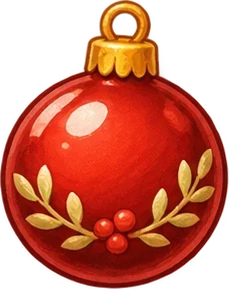
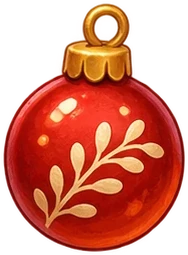
juego: canasta que se llena (vacía, a medias, llena) con bono por pedido completo y adornos nuevos
Con la hoja nueva: tres dibujos de canasta según cuántos pollitos y piezas lleva; al juntar 18 se
completa el pedido (+100 y la canasta se vacía). Esfera, piña y listón se rehacen con el estilo de
la hoja y se suman la rama de pino y el regalo como cosas que no van en el pedido.

diff --git a/src/data/juegoPollitos.js b/src/data/juegoPollitos.js
@@ -10,6 +10,9 @@ import { sonar } from './pollitosAudio.js'
 const W = 400
 const MOSTRADOR = 92           // alto de la franja del mostrador (suelo)
 const CANASTA_W = 108
+const CANASTA_ALTO = 88         // de la base al borde de la canasta vacía
+const PEDIDO = 18               // piezas y pollitos que llenan un pedido (da un bono y la canasta se vacía)
+const BONO_PEDIDO = 100
 const VEL_CANASTA = 1500       // unidades por segundo
 const VIDAS = 3
 
@@ -30,8 +33,11 @@ const MALOS = [
   { id: 'esfera', w: 46, tipo: 'malo' },
   { id: 'pina', w: 46, tipo: 'malo' },
   { id: 'liston', w: 56, tipo: 'malo' },
+  { id: 'rama', w: 52, tipo: 'malo' },
+  { id: 'regalo', w: 50, tipo: 'malo' },
 ]
-const IMAGENES = ['canasta', ...BUENOS.map(b => b.id), CORAZON.id, ...MALOS.map(m => m.id)]
+const CANASTAS = ['canasta-vacia', 'canasta-media', 'canasta-llena']
+const IMAGENES = [...CANASTAS, ...BUENOS.map(b => b.id), CORAZON.id, ...MALOS.map(m => m.id)]
 
 const COLORES_CHISPA = ['#FFE066', '#FFF3C4', '#F4B63E', '#FF9F43']
 const COLORES_LUZ = ['#FFD36A', '#FF6A5A', '#7FE08A', '#FFD36A', '#FFF1C2']
@@ -68,6 +74,7 @@ export function crearJuego(canvas, imgs, op) {
   let x = W / 2
   let objetivo = W / 2
   let inclina = 0
+  let llenado = 0              // piezas y pollitos en la canasta (decide cuál de los tres dibujos se ve)
   let puntos = 0, vidas = VIDAS, racha = 0, mejorRacha = 0, nPollitos = 0, nPiezas = 0
   let spawnT = 0.6
   let ultimoX = -999
@@ -289,7 +296,7 @@ export function crearJuego(canvas, imgs, op) {
 
   function atrapar(it) {
     it.dentro = 0
-    const bocaY = sueloY() + 12 - (CANASTA_W * 233) / 300 + 18
+    const bocaY = sueloY() + 12 - CANASTA_ALTO + 18
     if (it.malo) {
       if (estado === 'jugando') {
         vidas -= 1; racha = 0; sacudida = 0.5; destello = 0.55
@@ -304,6 +311,11 @@ export function crearJuego(canvas, imgs, op) {
     }
     rebote = 1
     chispas(it.x, bocaY, COLORES_CHISPA, 9)
+    let completo = false
+    if (it.tipo === 'pollito' || it.tipo === 'pieza') {
+      llenado += 1
+      if (llenado >= PEDIDO) { llenado = 0; completo = true }
+    }
     if (estado !== 'jugando') return
     if (it.tipo === 'vida') {
       vidas = Math.min(VIDAS, vidas + 1)
@@ -319,6 +331,12 @@ export function crearJuego(canvas, imgs, op) {
     else if (it.tipo === 'pieza') nPiezas += 1
     sonido(it.tipo === 'moneda' || it.tipo === 'estrella' ? 'moneda' : 'atrapa', racha)
     texto(it.x, bocaY - 12, `+${ganado}`, m > 1 ? '#FFE066' : '#FFF3C4', 22 + m * 2)
+    if (completo) {
+      puntos += BONO_PEDIDO
+      sonido('vida')
+      chispas(x, bocaY - 20, COLORES_CHISPA, 26, 260)
+      texto(W / 2, sueloY() - 150, `¡Pedido completo! +${BONO_PEDIDO}`, '#FFE066', 26)
+    }
     avisarPuntos()
   }
 
@@ -332,13 +350,13 @@ export function crearJuego(canvas, imgs, op) {
 
   function terminar() {
     const r = { puntos, pollitos: nPollitos, piezas: nPiezas, racha: mejorRacha, segundos: Math.round(t) }
-    estado = 'demo'; items = []; spawnT = 0.5
+    estado = 'demo'; items = []; spawnT = 0.5; llenado = 0
     op.onFin?.(r)
   }
 
   function iniciar() {
     items = []; particulas = []; textos = []
-    puntos = 0; vidas = VIDAS; racha = 0; mejorRacha = 0; nPollitos = 0; nPiezas = 0
+    llenado = 0; puntos = 0; vidas = VIDAS; racha = 0; mejorRacha = 0; nPollitos = 0; nPiezas = 0
     t = 0; spawnT = 0.7; sacudida = 0; destello = 0
     estado = 'jugando'; pausado = false
     op.onVidas?.(vidas); op.onPuntos?.({ puntos, racha, mult: 1 })
@@ -371,7 +389,7 @@ export function crearJuego(canvas, imgs, op) {
     }
 
     const suelo = sueloY()
-    const bocaY = suelo + 12 - (CANASTA_W * 233) / 300 + 18
+    const bocaY = suelo + 12 - CANASTA_ALTO + 18
     for (const it of items) {
       if (it.dentro >= 0) {
         it.dentro += dt / 0.18
@@ -429,9 +447,9 @@ export function crearJuego(canvas, imgs, op) {
       ctx.restore()
     }
 
-    const cb = imgs.canasta
+    const cb = imgs[llenado >= (PEDIDO * 2) / 3 ? 'canasta-llena' : llenado >= PEDIDO / 3 ? 'canasta-media' : 'canasta-vacia']
     const cw = CANASTA_W
-    const ch = cb ? (cw * cb.naturalHeight) / cb.naturalWidth : 84
+    const ch = cb ? (cw * cb.naturalHeight) / cb.naturalWidth : 114
     if (cb) {
       ctx.save()
       ctx.translate(x, sueloY() + 12)
@@ -498,7 +516,7 @@ export function crearJuego(canvas, imgs, op) {
   return {
     iniciar,
     pausar(v) { pausado = !!v },
-    salir() { estado = 'demo'; pausado = false; items = []; spawnT = 0.5 },
+    salir() { estado = 'demo'; pausado = false; items = []; spawnT = 0.5; llenado = 0 },
     destruir() {
       cancelAnimationFrame(raf); ro.disconnect()
       canvas.removeEventListener('pointerdown', mover)

diff --git a/src/pages/JuegoPollitos.jsx b/src/pages/JuegoPollitos.jsx
@@ -18,7 +18,7 @@ const miles = (n) => n.toLocaleString('es-MX')
 const img = (n) => `${BASE}pollitos/${n}.webp`
 
 const SI = ['pollito-1', 'muslo', 'papas-1', 'moneda-estrella']
-const NO = ['esfera', 'pina', 'liston']
+const NO = ['esfera', 'pina', 'rama', 'regalo']
 
 function titulo(r) {
   if (r.record) return '¡Nuevo récord!'
@@ -158,7 +158,7 @@ export default function JuegoPollitos() {
             <div className="pp-reglas">
               <div className="pp-regla si"><b>Atrapa</b><span>{SI.map(n => <img key={n} src={img(n)} alt="" draggable="false" />)}</span></div>
               <div className="pp-regla no"><b>Esquiva</b><span>{NO.map(n => <img key={n} src={img(n)} alt="" draggable="false" />)}</span></div>
-              <p>Arrastra el dedo de lado a lado para mover la canasta. ¡Los adornos no van en el pedido!</p>
+              <p>Arrastra el dedo de lado a lado para mover la canasta. Los adornos no van en el pedido: ¡llénala para ganar un bono!</p>
             </div>
 
             <button type="button" className="pp-jugar" disabled={!imgs} onClick={jugar}>
